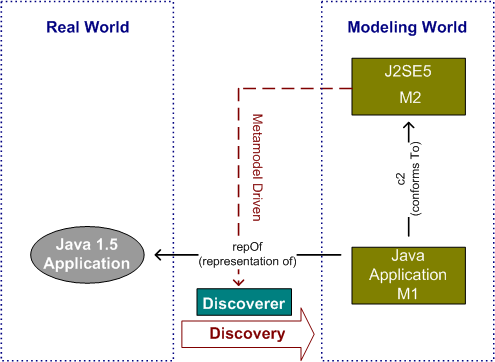
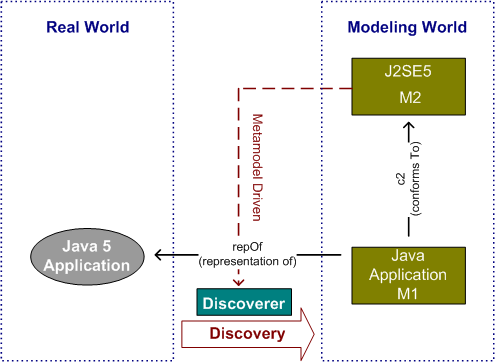
replace Java 1.5 by Java 5

Changed region(s): [[0.0606, 0.6077, 0.303, 0.7901]]

diff --git a/toolBox/J2SE5/index.php b/toolBox/J2SE5/index.php
@@ -62,7 +62,7 @@
 		<h4 STYLE="font-size: 10pt; padding: 0; border-bottom: 2px solid #49457C; background-position: top left; background-repeat; repeat-x;"><a name="overview">Overview</a></h4>
 		
 		<p align="justify">
-	    	This generic tool is about <b>discovering a complete model out of the source code of a Java 1.5 application</b>. The model, which conforms to the <b>J2SE5</b> metamodel, describes all the structural concepts (from packages up to method invocations and comments) and links between code elements (method invocations, variables usage, class inheritance, etc).
+	    	This generic tool is about <b>discovering a complete model out of the source code of a Java 5 application</b>. The model, which conforms to the <b>J2SE5</b> metamodel, describes all the structural concepts (from packages up to method invocations and comments) and links between code elements (method invocations, variables usage, class inheritance, etc).
 	    	<br /><br />
 	    	This tool is provided by <b><a href="http://www.mia-software.com/index.php?lang=en">MIA-Software</a></b> and its development is being supported by the <a href="http://www.modelplex-ist.org">IST European MODELPLEX project</a> (MODELing solution for comPLEX software systems, FP6-IP 34081). 
 	    	<br /><br />
